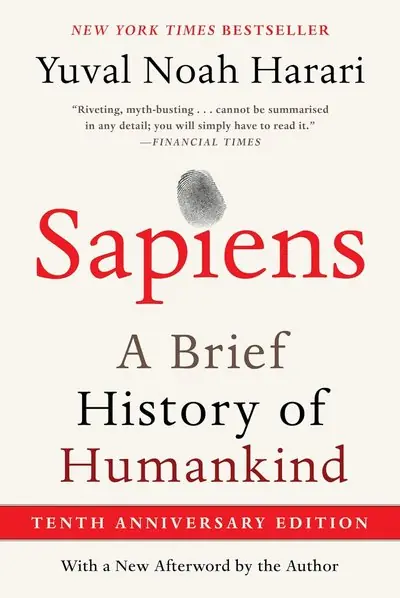
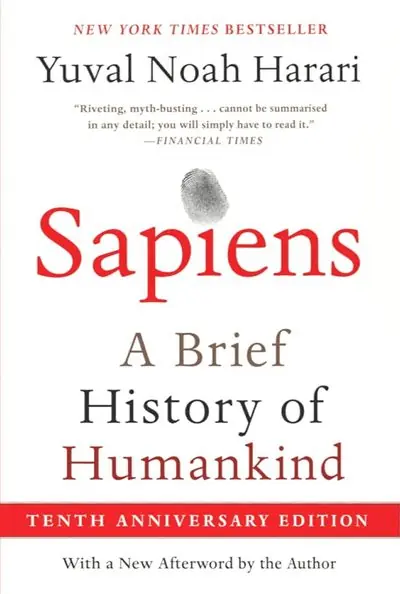
Bookshelf: Sapiens is the Tenth Anniversary Edition
Front cover straightened from the user's Amazon render (matching the spine
already on the shelf); size confirmed by the user, 6 x 1.2 x 8.9 in.

diff --git a/books.html b/books.html
@@ -493,13 +493,13 @@
             </div>
             <div class="cover-caption" aria-hidden="true"><span class="cc-t">Baptism: Its Purpose, Practice and Power</span><span class="cc-a">Michael Green</span></div>
           </li>
-          <li class="slot img-spine" style="--h:14.02; --w:3.03; --cr:0.669; --cloth:#f8f5ee; --ink-on:#1c1a16">
+          <li class="slot img-spine" style="--h:14.02; --w:3.03; --cr:0.673; --cloth:#fefdfd; --ink-on:#1c1a16">
             <button class="hit" type="button" aria-expanded="false"
                     aria-label="Sapiens: A Brief History of Humankind by Harari, Yuval Noah"></button>
             <div class="book" aria-hidden="true">
               <div class="face spine-face" style="background-image: url(covers/sapiens-a-brief-history-of-humankind-spine.webp)"><span class="spine-title">Sapiens</span><span class="spine-author">Harari</span></div>
               <div class="face top-face"></div>
-              <div class="face cover-face"><img data-src="covers/sapiens-a-brief-history-of-humankind.webp" alt="" width="400" height="598"></div>
+              <div class="face cover-face"><img data-src="covers/sapiens-a-brief-history-of-humankind.webp" alt="" width="400" height="594"></div>
             </div>
             <div class="cover-caption" aria-hidden="true"><span class="cc-t">Sapiens: A Brief History of Humankind</span><span class="cc-a">Yuval Noah Harari</span></div>
           </li>
